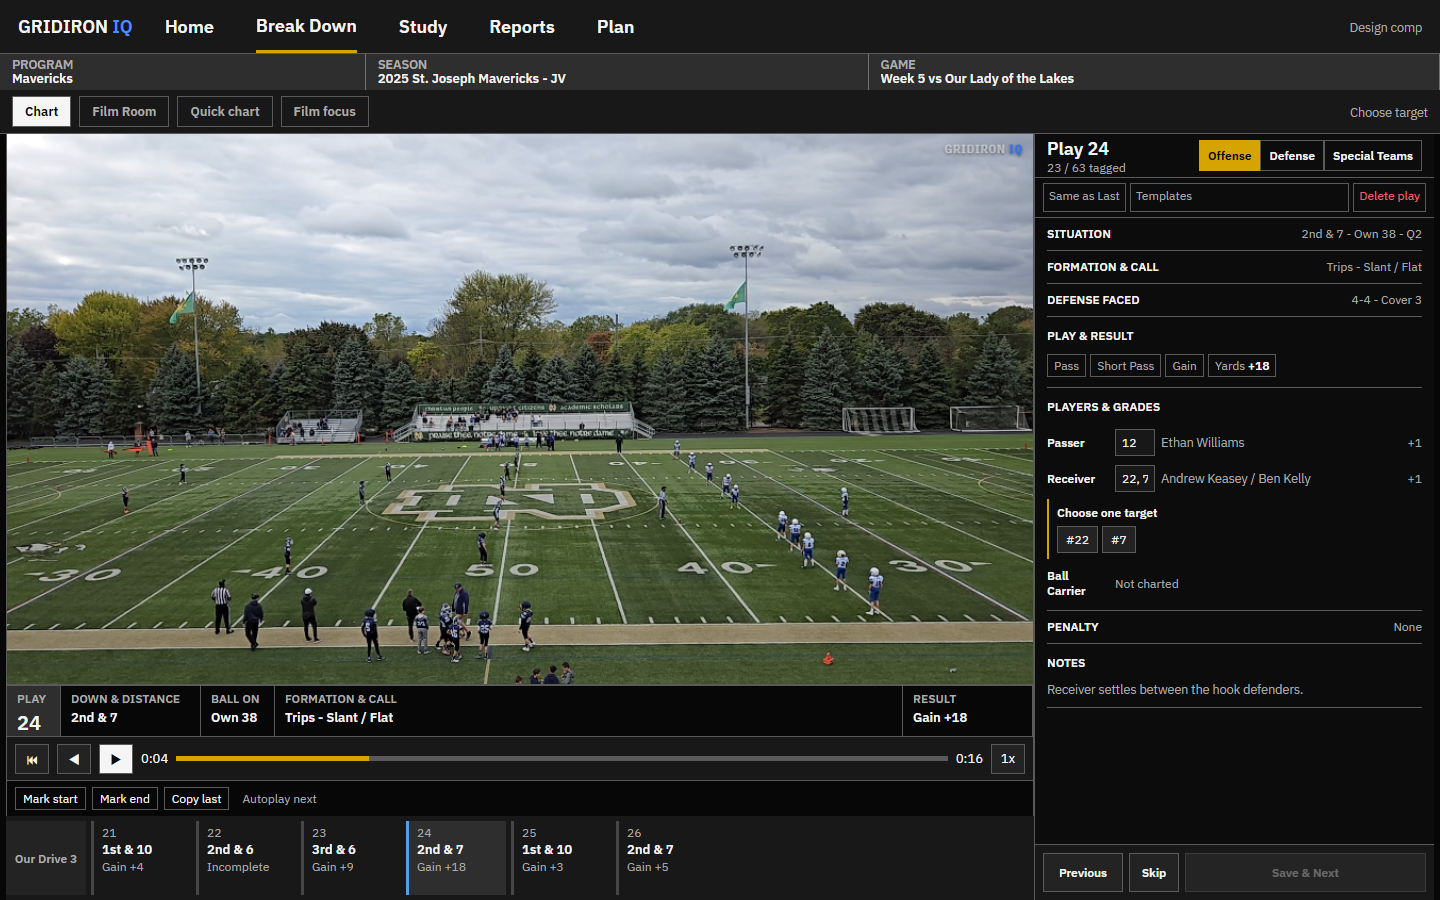
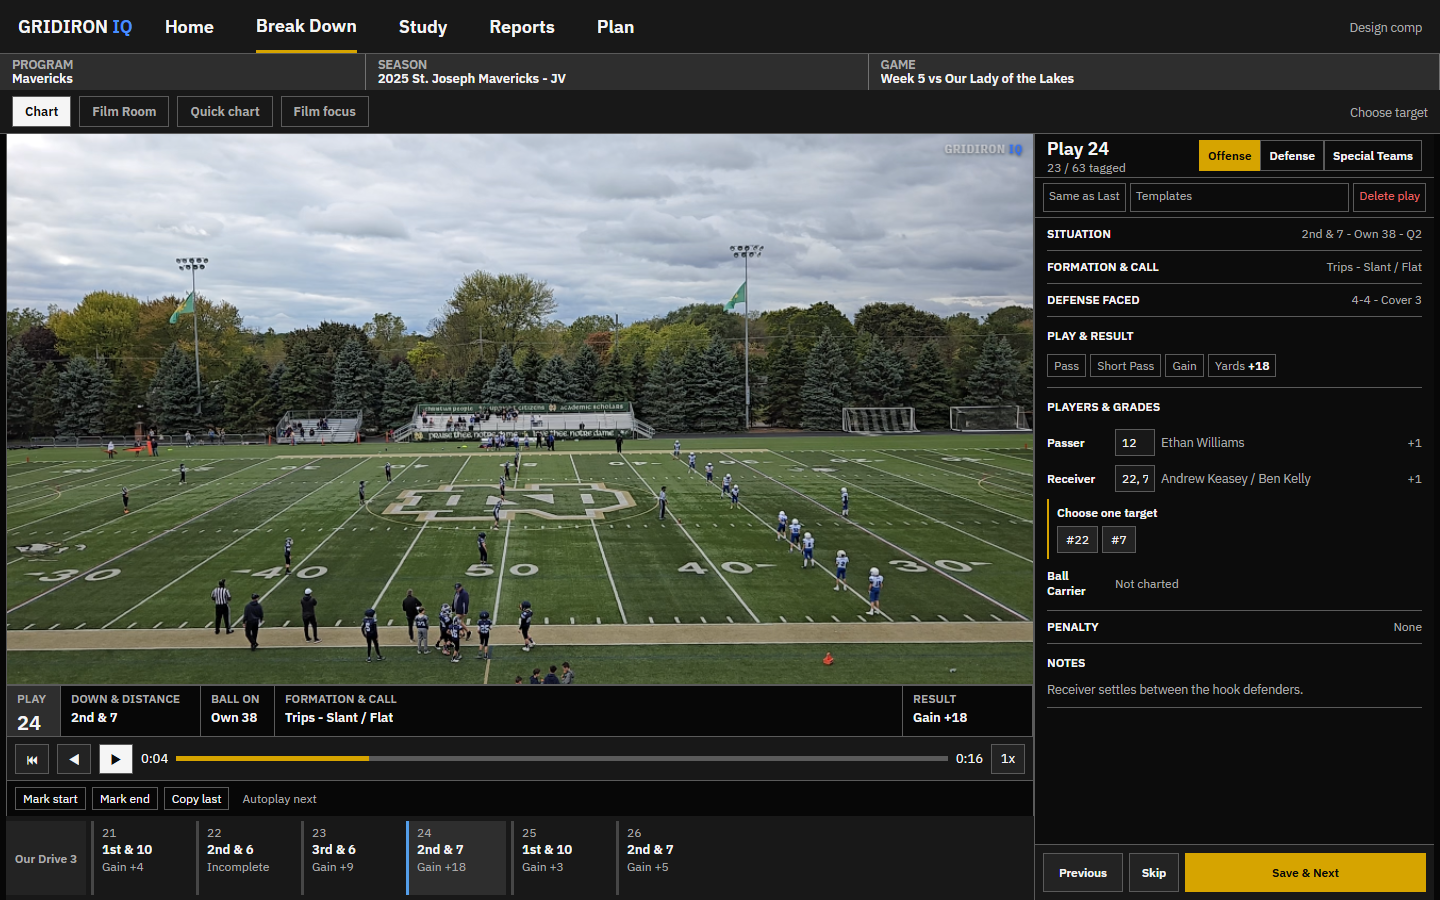
design: keep play save independent of receiver detail
Apply coach feedback: multiple receiver numbers defer only route/location editing, not Save & Next; remove the Release explanation control; label depth once per field row. Record hash-based lateral zones and independence from Pass Direction. Replace the save-blocking comp assertions with the approved behavior and verify activation of Save in that state. Regenerated desktop/mobile renders and comp checks pass 126/126. No production or coach-data changes, gate, installer, push or tag.

Changed region(s): [[0.8125, 0.9333, 1.0, 0.9956]]

diff --git a/design-comps/receiver-charting-2026-10-13/comp.css b/design-comps/receiver-charting-2026-10-13/comp.css
@@ -5,7 +5,7 @@
 .play-strip{grid-area:rail;display:flex;gap:5px;padding:5px 0;overflow:auto;background:var(--gi-2)}.play-strip>div{flex:0 0 100px;border-left:3px solid var(--gi-6);padding:4px 8px;display:flex;flex-direction:column;gap:1px}.play-strip small,.play-strip span{font-size:12px;color:var(--gi-11)}.play-strip b{font-size:13px}.play-strip .current{background:var(--gi-4);border-color:#549ee9}.drive{flex:0 0 80px;display:grid;place-items:center;padding:6px;background:var(--gi-3);font-weight:600}
 .deck{grid-area:deck;min-width:0;min-height:0;display:grid;grid-template-rows:44px 40px minmax(0,1fr) 56px;background:var(--gi-1);border-left:1px solid var(--gi-7)}.deck-head{display:flex;align-items:center;justify-content:space-between;gap:4px;padding:4px 12px;border-bottom:1px solid var(--gi-7)}.deck-head b{font-size:18px}.deck-head small{display:block;color:var(--gi-11);font-size:12px}.units{display:flex;font-size:12px;font-weight:600}.units span{padding:7px 8px;border:1px solid var(--gi-7)}.units .on{color:#080808;background:#d6a400;border-color:#d6a400}.template{display:grid;grid-template-columns:auto minmax(0,1fr) auto;gap:4px;padding:5px 8px;border-bottom:1px solid var(--gi-7);font-size:12px;color:var(--gi-11)}.template span{padding:4px 5px;border:1px solid var(--gi-7);white-space:nowrap}.template span:last-child{color:#e96a6a}.deck-scroll{overflow-y:auto;min-height:0;padding:0 12px 12px}.group{border-bottom:1px solid var(--gi-7);padding:10px 0}.group h2{margin:0 0 9px;font-size:12px;line-height:18px;font-weight:600}.group.compact{padding:7px 0}.group.compact h2{display:flex;flex-wrap:wrap;justify-content:space-between;gap:2px 8px;margin:0}.group.compact h2 span{font-size:12px;font-weight:400;color:var(--gi-11)}.result-line{display:flex;flex-wrap:wrap;gap:4px}.result-line>span{border:1px solid var(--gi-7);padding:3px 6px;color:var(--gi-11);font-size:12px}.result-line b{color:var(--gi-12)}
 .player-row{display:grid;grid-template-columns:62px 40px minmax(0,1fr) 28px;gap:6px;align-items:center;min-height:34px}.player-row label{font-weight:600;font-size:12px}.player-row input{width:100%;height:27px;font-size:12px}.player-name{font-size:12.5px;color:var(--gi-11);overflow-wrap:anywhere;line-height:17px}.grade{color:var(--gi-11);text-align:right;font-size:12px}.receiver-row{padding-top:4px}.receiver-detail{margin:6px 0 9px;border-top:1px solid var(--gi-6);border-bottom:1px solid var(--gi-6)}.detail-toggle{width:100%;display:flex;align-items:center;gap:6px;min-height:32px;text-align:left;padding:5px 0;border:0;background:transparent;font-size:12px}.detail-toggle:hover{background:transparent}.caret{width:10px;flex:0 0 10px}.summary{margin-left:auto;text-align:right;color:var(--gi-11);overflow-wrap:anywhere;max-width:50%;font-size:12px}.field-title{display:flex;align-items:center;justify-content:space-between;gap:8px;margin:8px 0 5px;font-weight:600;font-size:12px}.library-link{font-size:12px;min-height:22px;padding:1px 6px;color:var(--gi-11)}.chips{display:flex;flex-wrap:wrap;gap:4px}.chips button{height:27px;padding:3px 8px;font:400 12px/19px 'IBM Plex Sans',Arial,sans-serif;max-width:100%;overflow-wrap:anywhere}.chips button[aria-pressed=true]{background:var(--gi-12);border-color:var(--gi-12);color:var(--gi-1)}.release{margin-bottom:10px}.icon-button{width:27px;height:27px;flex:0 0 27px;padding:0;display:grid;place-items:center;font-size:15px}.field-title .icon-button{width:22px;height:22px;flex-basis:22px;font-size:12px}.blank-player{grid-column:2/-1;font-size:12px;color:var(--gi-11)}.other-player{margin-top:7px}.target-choice{border-left:2px solid #d6a400;margin-top:6px;padding:6px 0 6px 8px}.target-choice strong{display:block;font-size:12px;margin-bottom:6px}.notes p{margin:0;color:var(--gi-11);font-size:12.5px}
-.zone-editor{padding:10px 0;border-top:1px solid var(--gi-6)}.zone-heading{display:flex;justify-content:space-between;align-items:center;gap:8px;margin-bottom:8px;font-size:12px}.checkpoint{font-size:12px;color:var(--gi-11)}.location-tabs{display:grid;grid-template-columns:1fr 1fr;margin-bottom:8px}.location-tabs button{min-height:44px;text-align:left;padding:5px 8px;font-size:12px;line-height:17px}.location-tabs button span{display:block;font-weight:400;color:var(--gi-11)}.location-tabs button[aria-selected=true]{box-shadow:inset 0 -2px #52b6d0;background:var(--gi-4)}.field{border:1px solid var(--gi-7);background:#151d19}.field-side{display:grid;grid-template-columns:repeat(3,minmax(0,1fr));text-align:center;font-size:12px;padding:6px 0;color:#d6ded8;background:#1a211c}.zones{display:grid;grid-template-columns:repeat(3,minmax(0,1fr));grid-template-rows:repeat(3,65px)}.zones button{min-width:0;border:0;border-top:1px solid #5a685c;border-right:1px solid #5a685c;background:transparent;color:#cad4cc;padding:4px;font-size:12px;position:relative;display:flex;flex-direction:column;align-items:center;justify-content:center;gap:3px}.zones button:nth-child(3n){border-right:0}.zones button:hover{background:#243028}.zones button span{font-size:12px;color:#a7b7aa}.zones button[aria-pressed=true]{background:#26424a;box-shadow:inset 0 0 0 2px #65bcd2;color:#fff}.zones button[aria-pressed=true]::after{content:'';width:9px;height:9px;border-radius:50%;background:#76d0e4;position:absolute;top:7px;right:7px}.zones.catch button[aria-pressed=true]::after{border-radius:0;background:#e6e6e6}.los{border-top:2px solid #719da9;padding:5px;text-align:center;font-size:12px;color:#c1d4d8}.location-bottom{display:flex;align-items:center;justify-content:space-between;gap:6px;margin-top:7px;color:var(--gi-11);font-size:12px}.commit{display:grid;grid-template-columns:80px 50px minmax(0,1fr);gap:6px;padding:8px;border-top:1px solid var(--gi-7);background:var(--gi-2)}.commit button{font-size:12px;font-weight:600}.commit .save{background:#d6a400;border-color:#d6a400;color:#080808}.commit .save:hover{background:#e6b414}.commit .save:disabled{background:var(--gi-4);border-color:var(--gi-7);color:var(--gi-11)}
+.zone-editor{padding:10px 0;border-top:1px solid var(--gi-6)}.zone-heading{display:flex;justify-content:space-between;align-items:center;gap:8px;margin-bottom:8px;font-size:12px}.checkpoint{font-size:12px;color:var(--gi-11)}.location-tabs{display:grid;grid-template-columns:1fr 1fr;margin-bottom:8px}.location-tabs button{min-height:44px;text-align:left;padding:5px 8px;font-size:12px;line-height:17px}.location-tabs button span{display:block;font-weight:400;color:var(--gi-11)}.location-tabs button[aria-selected=true]{box-shadow:inset 0 -2px #52b6d0;background:var(--gi-4)}.field{border:1px solid var(--gi-7);background:#151d19}.field-side{display:grid;grid-template-columns:76px repeat(3,minmax(0,1fr));text-align:center;font-size:12px;padding:6px 0;color:#d6ded8;background:#1a211c}.zones{display:grid;grid-template-columns:76px repeat(3,minmax(0,1fr));grid-template-rows:repeat(3,65px)}.zones button{min-width:0;border:0;border-top:1px solid #5a685c;border-right:1px solid #5a685c;background:transparent;color:#cad4cc;padding:4px;font-size:12px;position:relative;display:flex;flex-direction:column;align-items:center;justify-content:center;gap:3px}.zones button:nth-child(4n){border-right:0}.zones button:hover{background:#243028}.zones button[aria-pressed=true]{background:#26424a;box-shadow:inset 0 0 0 2px #65bcd2;color:#fff}.zones button[aria-pressed=true]::after{content:'';width:9px;height:9px;border-radius:50%;background:#76d0e4;position:absolute;top:7px;right:7px}.zones.catch button[aria-pressed=true]::after{border-radius:0;background:#e6e6e6}.los{border-top:2px solid #719da9;padding:5px;text-align:center;font-size:12px;color:#c1d4d8}.location-bottom{display:flex;align-items:center;justify-content:space-between;gap:6px;margin-top:7px;color:var(--gi-11);font-size:12px}.commit{display:grid;grid-template-columns:80px 50px minmax(0,1fr);gap:6px;padding:8px;border-top:1px solid var(--gi-7);background:var(--gi-2)}.commit button{font-size:12px;font-weight:600}.commit .save{background:#d6a400;border-color:#d6a400;color:#080808}.commit .save:hover{background:#e6b414}
 dialog{width:min(370px,calc(100% - 24px));max-height:80vh;border:1px solid var(--gi-8);padding:12px;background:var(--gi-2);color:var(--gi-12)}dialog::backdrop{background:#0009}dialog header{display:flex;align-items:center;justify-content:space-between;margin-bottom:8px}dialog h2{font-size:15px;margin:0}#library-rows{max-height:45vh;overflow:auto}#library-rows label{display:flex;gap:8px;align-items:center;padding:6px 0;overflow-wrap:anywhere}.add-route{display:flex;gap:6px;margin-top:10px}.add-route input{flex:1;width:100%}.add-route button,.library-done{min-height:32px;padding:4px 12px}.library-done{width:100%;margin-top:8px}
 @media(max-width:1100px){.top{gap:16px}.top nav{gap:22px}.composition{grid-template-rows:minmax(0,1fr) 34px}.play-strip{padding:2px 0}.play-strip>div{flex-direction:row;align-items:center;flex-basis:155px}.play-strip span{display:none}.film-facts{grid-template-columns:48px 120px 74px minmax(0,1fr)}.film-facts>div:last-child{display:none}}
 @media(max-width:1000px){.workspace{height:auto;min-height:100vh;grid-template-rows:54px auto 44px auto}.composition{grid-template-columns:minmax(0,1fr);grid-template-rows:520px 34px auto;grid-template-areas:'film' 'rail' 'deck'}.deck{border-left:0;grid-template-rows:44px 40px auto 56px}.deck-scroll{overflow:visible}.top nav{gap:16px;font-size:15px}.top nav span:last-child{display:none}.context{min-height:46px}.comp-label{display:none}.preview-state{font-size:12px}.commit{position:static}.theater{grid-template-rows:minmax(0,1fr) 54px 44px 36px}}
@@ -16,3 +16,4 @@ dialog{width:min(370px,calc(100% - 24px));max-height:80vh;border:1px solid var(-
 .los{border-top:1px solid #5a685c}
 @media(min-width:621px){.zones{grid-template-rows:repeat(3,58px)}}
 @media(min-width:1001px){.theater{grid-template-rows:minmax(0,1fr) 52px 44px 36px}}
+.depth-label{display:flex;flex-direction:column;justify-content:center;gap:3px;padding:4px 6px;border-top:1px solid #5a685c;border-right:1px solid #5a685c;color:#cad4cc;font-size:12px;line-height:16px}.depth-label span{color:#a7b7aa}

diff --git a/design-comps/receiver-charting-2026-10-13/index.html b/design-comps/receiver-charting-2026-10-13/index.html
@@ -10,7 +10,7 @@
 <section class="deck" aria-label="Chart deck"><div class="deck-head"><div><b>Play 24</b><small>23 / 63 tagged</small></div><div class="units"><span class="on">Offense</span><span>Defense</span><span>Special Teams</span></div></div><div class="template"><span>Same as Last</span><span>Templates</span><span>Delete play</span></div>
 <div class="deck-scroll" id="deck-scroll"><section class="group compact"><h2>SITUATION <span>2nd &amp; 7 - Own 38 - Q2</span></h2></section><section class="group compact"><h2>FORMATION &amp; CALL <span>Trips - Slant / Flat</span></h2></section><section class="group compact"><h2>DEFENSE FACED <span>4-4 - Cover 3</span></h2></section><section class="group result"><h2>PLAY &amp; RESULT</h2><div class="result-line"><span>Pass</span><span>Short Pass</span><span id="result-value">Gain</span><span>Yards <b id="gain">+18</b></span></div></section>
 <section class="group players"><h2>PLAYERS &amp; GRADES</h2><div class="player-row"><label for="passer">Passer</label><input id="passer" value="12" readonly><span class="player-name">Ethan Williams</span><span class="grade">+1</span></div><div class="player-row receiver-row"><label for="receiver">Receiver</label><input id="receiver" value="22" inputmode="numeric"><span class="player-name" id="receiver-name">Andrew Keasey</span><span class="grade">+1</span></div><div class="target-choice" id="target-choice" hidden><strong>Choose one target</strong><div id="target-options" class="chips"></div></div>
-<div class="receiver-detail" id="receiver-detail"><button class="detail-toggle" id="detail-toggle" aria-expanded="true" aria-controls="editor"><span class="caret" aria-hidden="true">&#x25BE;</span><b>Route &amp; Release</b><span class="summary" id="summary">Slant / Inside</span></button><div id="editor"><div class="field-title"><label>Route</label><button class="library-link" id="library-open">Edit library</button></div><div class="chips routes" id="routes" role="group" aria-label="Receiver route"></div><div class="field-title"><label>Release</label><button class="icon-button" id="release-help" aria-label="Release definition" title="Inside: toward the hashes / middle. Outside: toward the sideline.">i</button></div><div class="chips release" id="release" role="group" aria-label="Receiver release"><button data-release="Inside" aria-pressed="true">Inside</button><button data-release="Outside" aria-pressed="false">Outside</button></div>
+<div class="receiver-detail" id="receiver-detail"><button class="detail-toggle" id="detail-toggle" aria-expanded="true" aria-controls="editor"><span class="caret" aria-hidden="true">&#x25BE;</span><b>Route &amp; Release</b><span class="summary" id="summary">Slant / Inside</span></button><div id="editor"><div class="field-title"><label>Route</label><button class="library-link" id="library-open">Edit library</button></div><div class="chips routes" id="routes" role="group" aria-label="Receiver route"></div><div class="field-title"><label>Release</label></div><div class="chips release" id="release" role="group" aria-label="Receiver release"><button data-release="Inside" aria-pressed="true">Inside</button><button data-release="Outside" aria-pressed="false">Outside</button></div>
 <div class="zone-editor" id="zone-editor" hidden><div class="zone-heading"><b>Pass location</b><span class="checkpoint">Checkpoint 2</span></div><div class="location-tabs" role="tablist" aria-label="Pass location"><button role="tab" id="target-tab" aria-selected="true" aria-controls="field" data-layer="target">Target <span id="target-summary">Middle / Short</span></button><button role="tab" id="catch-tab" aria-selected="false" aria-controls="field" data-layer="catch">Catch <span id="catch-summary">Middle / Short</span></button></div><div class="field" id="field" role="tabpanel" aria-labelledby="target-tab"><div class="field-side"><span>Left</span><span>Middle</span><span>Right</span></div><div class="zones" id="zones" role="group" aria-label="Target zone"></div><div class="los"><span>Depth from LOS - offense's view</span></div></div><div class="location-bottom"><span id="location-state">Target: Middle / Short</span><button class="icon-button" id="zone-clear" title="Clear this location" aria-label="Clear this location">&#x00D7;</button></div></div></div></div>
 <div class="player-row other-player"><label>Ball Carrier</label><span class="blank-player">Not charted</span></div></section><section class="group compact"><h2>PENALTY <span>None</span></h2></section><section class="group notes"><h2>NOTES</h2><p>Receiver settles between the hook defenders.</p></section></div><div class="commit"><button id="previous">Previous</button><button id="skip">Skip</button><button class="save" id="save">Save &amp; Next</button></div></section>
 </main></div><dialog id="library"><form method="dialog"><header><h2>Route library</h2><button class="icon-button" aria-label="Close route library">&#x00D7;</button></header><div id="library-rows"></div><div class="add-route"><input id="new-route" placeholder="Route name" aria-label="New route name"><button type="button" id="add-route">Add</button></div><button class="library-done">Done</button></form></dialog><script src="comp.js"></script></body></html>

diff --git a/design-comps/receiver-charting-2026-10-13/comp.js b/design-comps/receiver-charting-2026-10-13/comp.js
@@ -24,11 +24,16 @@ function render() {
   $('target-summary').textContent=zoneLabel(state.target); $('catch-summary').textContent=state.complete ? zoneLabel(state.catch) : 'No completion';
   $('field').setAttribute('aria-labelledby',`${state.layer}-tab`);
   $('zones').setAttribute('aria-label',`${state.layer === 'target' ? 'Target' : 'Catch'} zone`); $('zones').classList.toggle('catch',state.layer === 'catch');
-  $('zones').replaceChildren(...ZONES.map(zone => {
+  $('field').querySelector('.field-side').replaceChildren(...['','Left','Middle','Right'].map(side => { const label=document.createElement('span'); label.textContent=side; return label; }));
+  $('zones').replaceChildren(...['Deep','Medium','Short'].flatMap(depth => {
+    const label=document.createElement('div'); label.className='depth-label';
+    const name=document.createElement('b'); name.textContent=depth;
+    const band=document.createElement('span'); band.textContent=depth === 'Deep' ? '20+' : depth === 'Medium' ? '10-19' : 'Behind LOS to 9'; label.append(name,band);
+    return [label,...ZONES.filter(zone => zone.depth === depth).map(zone => {
     const button=document.createElement('button'); button.dataset.zone=zone.id;
     button.setAttribute('aria-label',`${zone.side}, ${zone.depth}, ${zone.band} yards`); button.setAttribute('aria-pressed',String(state[state.layer] === zone.id));
-    const depth=document.createElement('b'); depth.textContent=zone.depth; const band=document.createElement('span'); band.textContent=zone.band;
-    button.append(depth,band); button.addEventListener('click',() => { state[state.layer]=state[state.layer] === zone.id ? '' : zone.id; render(); }); return button;
+    button.addEventListener('click',() => { state[state.layer]=state[state.layer] === zone.id ? '' : zone.id; render(); }); return button;
+    })];
   }));
   $('location-state').textContent=`${state.layer === 'target' ? 'Target' : 'Catch'}: ${zoneLabel(state[state.layer])}`;
   const single=/^\d{1,2}$/.test(state.receiver);
@@ -38,7 +43,7 @@ function render() {
     const button=document.createElement('button'); button.textContent=`#${number}`;
     button.addEventListener('click',() => { state.receiver=number; $('receiver').value=number; $('receiver-name').textContent=number === '22' ? 'Andrew Keasey' : 'Ben Kelly'; clearDetail(); render(); }); return button;
   }));
-  $('save').disabled=!single;
+  $('save').disabled=false;
   $('result-value').textContent=state.complete ? 'Gain' : 'Incomplete'; $('gain').textContent=state.complete ? '+18' : 'Not charted';
 }
 function scenario() {

diff --git a/design-comps/receiver-charting-2026-10-13/RATIONALE.md b/design-comps/receiver-charting-2026-10-13/RATIONALE.md
@@ -1,6 +1,6 @@
 # Receiver Charting Comp
 
-2026-10-13. **PROPOSED: awaiting coach design approval.** Production is not
+2026-10-13, revised 2026-10-14. **PROPOSED: awaiting coach design approval.** Production is not
 built. This folder is a standalone interactive comp, not an application route.
 
 Authority: `docs/RECEIVER-CHARTING-RESEARCH-PROPOSAL.md` > Decisions
@@ -26,6 +26,10 @@ and Catch have independent selections and a clear command. Edit library
 demonstrates show/hide and adding a coach-named route, entirely in memory.
 The field changes no gain, result, direction or receiver alignment. Selecting
 one target in the multiple-number state starts with no receiver detail.
+Save & Next stays available for the rest of the play while receiver detail
+waits for one target. The Release explanation button is removed. Each depth
+row is labeled once on the left; individual zone cells have accessible names
+but do not repeat the visible depth or yard range.
 
 ## Composition
 
@@ -60,7 +64,10 @@ one target in the multiple-number state starts with no receiver detail.
 Columns are offense-view Left / Middle / Right. Rows run Deep at the top,
 then Medium, then Short. These are categorical bands, not a yard-scaled
 field or exact plotted points. Equal cell widths serve readable tap targets;
-they do not decide where the coach's Middle begins on the real field.
+they do not represent measured field proportions. The coach settled lateral
+semantics: Middle is between the hashes, Left is outside the left hash and
+Right is outside the right hash, from the offense's view. Existing Pass
+Left/Right remains independent and does not fill Target or Catch.
 
 Proposed depth bands, awaiting confirmation:
 
@@ -91,7 +98,7 @@ profile, catalog, Documents mirror or coach data is read or written.
 Production receiver changes must follow the Save contract's confirmed removal
 and cancellation rules. The comp's editable number box is a state preview,
 not a proposed replacement for that owner logic. Multiple identities block
-new receiver detail and the preview Save. Unrelated existing charting must not
+new receiver detail only, never the play's Save. Unrelated existing charting must not
 be rewritten just to select the target in the production implementation.
 
 Tab and Enter/Space operate the buttons; browser focus remains visible.
@@ -121,11 +128,7 @@ constitutes coach approval or an installed WebView2 smoke.
 
 1. Confirm **Short through 9 / Medium 10-19 / Deep 20+**, including behind LOS
    in Short, or give different boundaries.
-2. For the lateral zones, should **Middle mean between the hashes**, with
-   Left/Right outside them, or a broader coach-judged middle? The equal-sized
-   picker cells do not settle that football definition. Recommendation:
-   between the hashes, manually judged; no automatic coordinate inference.
-3. Approve this receiver-adjacent disclosure, route ordering, and separate
+2. Approve this receiver-adjacent disclosure, route ordering, and separate
    Target/Catch tabs? The mobile size is an ergonomics check, not mobile
    product authorization.
 

diff --git a/docs/RECEIVER-CHARTING-RESEARCH-PROPOSAL.md b/docs/RECEIVER-CHARTING-RESEARCH-PROPOSAL.md
@@ -1,14 +1,17 @@
 # Receiver Charting: Research and Proposal
 
-**2026-10-13. Design decided by the coach; comp not yet made; nothing built.**
+**2026-10-13, clarified 2026-10-14. Comp rendered and awaiting approval;
+production is not built.** See
+`design-comps/receiver-charting-2026-10-13/RATIONALE.md`.
 
-## Decisions (coach, 2026-10-13)
+## Decisions (coach, 2026-10-13; clarified 2026-10-14)
 
 These override anything below that differs. The research and the rest of the
 contract stand.
 
 1. **Scope:** the identified target only (the offensive Receiver role, one
-   jersey number). All-receiver charting is not planned.
+   jersey number). All-receiver charting is not planned. Multiple numbers
+   defer receiver details only; Save & Next still saves the rest of the play.
 2. **Release:** `Inside` or `Outside` only, judged against the hash:
    Inside is a release toward the hashes (the middle of the field), Outside
    toward the sideline. No `Vertical` value and no release technique. Leave
@@ -24,9 +27,12 @@ contract stand.
    Short behind the line through 9 yards, Medium 10-19, Deep 20+) are
    confirmed with the coach in the comp. Target is where the ball actually
    arrived; Catch is recorded only on a completion; neither changes total
-   gain.
+   gain. Middle is between the hashes; Left and Right are outside the
+   corresponding hash, from the offense's view. Pass Left/Right stays
+   independent and never supplies Target or Catch automatically.
 6. **Placement:** inline in the deck under the Receiver row, never over the
-   film.
+   film. No Release explanation button. Label each location depth row once
+   on the side, not again in every selectable zone.
 
 **Order:** a rendered comp of the deck editor at desktop and narrow widths
 for the coach's approval, then build checkpoint 1 (route and release, with
